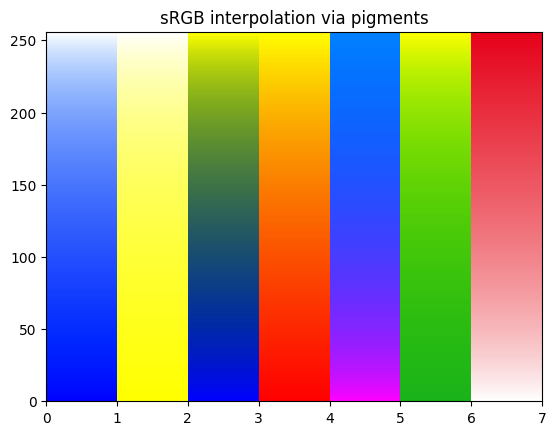
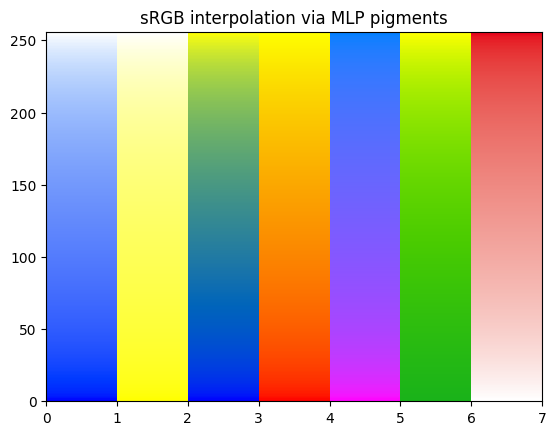
Interpolate RGB remainders in linear space

diff --git a/scripts/pigments.py b/scripts/pigments.py
@@ -181,7 +181,7 @@ class Pigments():
     def mix(self, concentration):
         rgb = self.mix_linear(concentration)
         color = rgb.T
-        color = _EOTF_sRGB(color)
+        color = OETF_sRGB(color)
         if rgb.ndim == 1:
             return color.flatten()
         else:
@@ -246,21 +246,21 @@ class Pigments():
 
     def lerp(self, rgb1, rgb2, t):
         c1 = self.unmix(rgb1)
-        r1 = rgb1 - self.mix(c1)
+        r1 = EOTF_sRGB(np.asarray(rgb1)) - self.mix_linear(c1)
 
         c2 = self.unmix(rgb2)
-        r2 = rgb2 - self.mix(c2)
+        r2 = EOTF_sRGB(np.asarray(rgb2)) - self.mix_linear(c2)
 
         c = (1 - t) * c1 + t * c2
         r = (1 - t) * r1 + t * r2
 
-        return np.clip(self.mix(c) + r, 0, 1)
+        return np.clip(OETF_sRGB(self.mix_linear(c) + r), 0, 1)
 
     def latent_lerp(self, c1, r1, c2, r2, t):
         c = (1 - t) * c1 + t * c2
         r = (1 - t) * r1 + t * r2
 
-        return np.clip(self.mix(c) + r, 0, 1)
+        return np.clip(OETF_sRGB(self.mix_linear(c) + r), 0, 1)
 
     def __generate_boundary_samples(self, steps=256):
         x = torch.arange(steps + 1, device=self.device, dtype=torch.float32)
@@ -448,7 +448,14 @@ def _xyz_to_rgb(x, y, z):
 
     return [r, g, b]
 
-def _EOTF_sRGB(x):
+def EOTF_sRGB(x):
+    return np.where(
+        x <= 0.04045,
+        (1.0 / 12.92) * x,
+        ((x + 0.055) / 1.055) ** 2.4
+    )
+
+def OETF_sRGB(x):
     return np.where(
         x <= 0.0031308,
         12.92 * x,